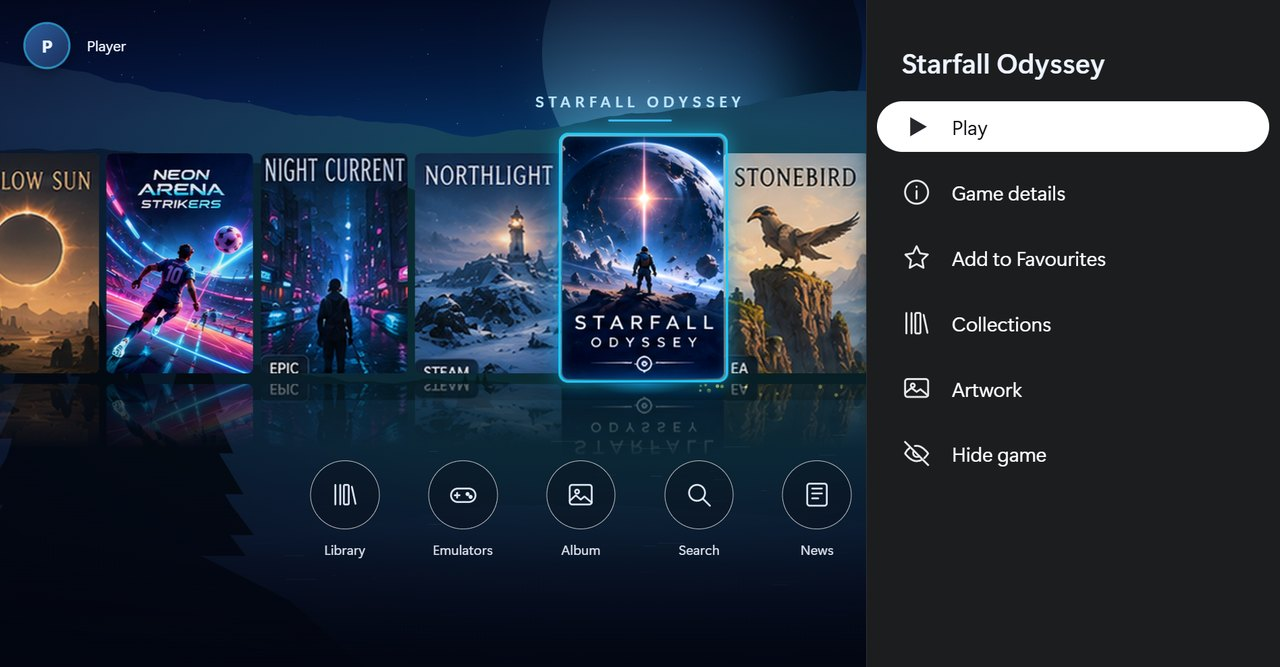
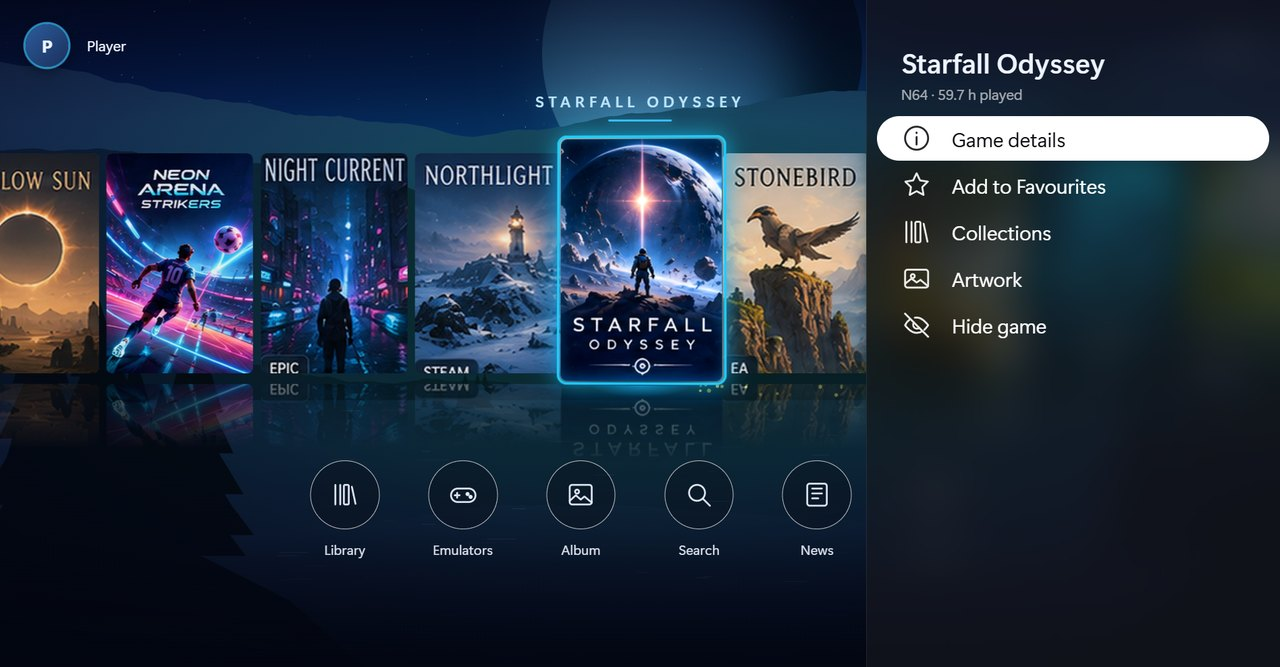
GOG games, launcher installs, game menu like Quick Access, Start opens it, room at 120% scale
- GOG: installed games found from the registry (Galaxy or offline installers); start through Galaxy when it's there
- Steam, Epic, EA app, Ubisoft Connect, GOG Galaxy, Battle.net and Rockstar can be installed from setup and
  Settings > Accounts when missing, through the install queue
- The game menu (Y or Start) is a Quick Access panel for that game: frosted, its console and playtime under the
  title, no Play (A starts a game)
- At a large UI scale the home buttons move up so the platform tabs keep their room

diff --git a/app/app.js b/app/app.js
@@ -1723,8 +1723,7 @@ $('#albumpage').addEventListener('click', e => {
 const Q = { open: false, game: null, i: 0, items: [] };
 function quickItems(g) {
   const svg = n => n === 'play' ? ICON_PLAY : icon(n);
-  return [
-    { label: RUN.has(g.id) ? 'Resume' : g.installed === false ? 'Install' : 'Play', ic: svg('play'), run: () => launchGame(g) },
+  return [  // no Play: A on the cover (or the details page) starts a game, so Y then A never starts one by mistake
     ...(RUN.has(g.id) ? [{ label: closeAsk === g.id ? 'Press A again to close' : 'Close game', ic: svg('close'), warn: true, stay: closeAsk !== g.id, run: () => askClose(g) }] : []),
     ...(D.open ? [] : [{ label: 'Game details', ic: svg('info'), run: () => openDetails(g) }]),
     { label: g.favorite ? 'Remove from Favourites' : 'Add to Favourites', ic: svg('star'), run: () => setFavorite(g, !g.favorite) },
@@ -1765,7 +1764,7 @@ function openQuick(g) {
   cover.style.setProperty('--c', colorOf(g));
   cover.style.backgroundImage = g.cover ? `url("${g.coverAnim || g.cover}")` : 'none';
   cover.innerHTML = g.cover ? '' : `<div class="ph">${esc(g.title)}</div>`;
-  $('#quick .q-meta').textContent = [g.system || g.group, g.installed === false ? 'Not installed' : '', g.minutes ? fmtTime(g.minutes) + ' played' : ''].filter(Boolean).join('   ·   ');
+  $('#quick .q-meta').textContent = [g.system || g.group, g.installed === false ? 'Not installed' : '', g.minutes ? fmtTime(g.minutes) + ' played' : ''].filter(Boolean).join(' · ');
   $('#quick .q-title').textContent = g.title;
   $('#quick .q-list').innerHTML = Q.items.map((it, j) => `<div class="q-item${it.warn ? ' warn' : ''}" data-i="${j}" style="animation-delay:${60 + j * 35}ms">${it.ic}<span>${esc(it.label)}</span></div>`).join('');
   $('#quick').classList.add('sys');  // every menu here is the same side panel
@@ -1995,6 +1994,7 @@ const SETTINGS = [
 const GAME_SERVICES = [
   { id: 'ea', name: 'EA app', logo: 'ea' },
   { id: 'ubisoft', name: 'Ubisoft Connect', logo: 'ubisoft' },
+  { id: 'gog', name: 'GOG', logo: 'gogdotcom' },
   { id: 'rockstar', name: 'Rockstar Games', logo: 'rockstargames' },
   { id: 'battlenet', name: 'Battle.net', logo: 'battledotnet' },
 ];
@@ -2250,6 +2250,7 @@ function panelItems() {
           || (d.services?.[service.id] ? 'Finds games installed on this PC' : 'Add games installed on this PC'),
         value: libraries.length ? 'Manage' : 'Set up', act: () => { P.service = service.id; setView('service'); } };
     }),
+    ...launcherRows(d, false),
     { kind: 'note', label: 'Select a connected account twice to disconnect it.' },
   ];
   if (P.view === 'service') {
@@ -2258,7 +2259,7 @@ function panelItems() {
       const r = await work(api('/api/libraries/add', { kind, provider: service.id }));
       if (r?.added) toast(`${service.name} games added`);
     };
-    const auto = d.services?.[service.id];  // EA app, Ubisoft Connect and Battle.net games are found automatically
+    const auto = d.services?.[service.id];  // EA app, Ubisoft Connect, GOG and Battle.net games are found automatically
     const key = service.id + 'Local';
     return [  // the page title names the service
       ...(auto ? [
@@ -2318,6 +2319,29 @@ function panelItems() {
 const val = id => $(`#panel input[data-id="${id}"]`)?.value || '';
 // ---------- extras: optional tools that install through the emulator queue (Settings › General and the setup guide) ----------
 const PM_RIGHTS = { ready: 'Ready', signout: 'Sign out and back in to finish', needed: 'Needs permission' };
+// Game launchers (Steam, Epic, EA app, Ubisoft Connect, GOG Galaxy, Battle.net, Rockstar): installed through the same queue
+// as the emulators when they're missing, from the setup guide's Accounts step and Settings › Accounts.
+const LAUNCHER_LOGO = { steam: 'steam', epic: 'epicgames', ea: 'ea', ubisoft: 'ubisoft', gog: 'gogdotcom', battlenet: 'battledotnet', rockstar: 'rockstargames' };
+function launcherRows(d, setup) {
+  const list = d.launchers || [];
+  if (!list.length) return [];
+  const missing = list.filter(l => !l.installed);
+  const install = l => l.job && ['waiting', 'installing'].includes(l.job.state) ? toast('It’s on its way', 2500)
+    : work(api('/api/launchers/install', { id: l.id })).then(r => { if (r) { toast(`Installing ${l.name}…`, 3000); watchQueue(); } });
+  return [
+    { kind: 'head', label: 'Game launchers' },
+    { kind: 'note', label: missing.length ? `${setup ? 'Don’t have one you use? ' : ''}Press A to install it from its maker. Their games then show up here by themselves.`
+      : 'Every launcher is installed.' },
+    ...list.map(l => {
+      const job = !l.installed && l.job && l.job.state !== 'ready' ? l.job : null;
+      return { kind: 'row', key: 'launcher-' + l.id, logo: LAUNCHER_LOGO[l.id], label: l.name,
+        value: l.installed ? '✓ Installed' : job ? (job.state === 'failed' ? 'Try again' : jobValue(job)) : 'Install',
+        sub: l.installed ? '' : job?.state === 'failed' ? `Install failed: ${job.error}` : job?.state === 'installing' && job.stage ? progressText(job)
+          : job ? 'Waiting to install' : 'Not installed on this PC',
+        ...jobBar({ job }), act: () => l.installed ? toast(`${l.name} is installed`, 2000) : install(l) };
+    }),
+  ];
+}
 function extraRows(d, setup) {
   const pm = d.extras?.presentmon;
   if (!pm?.available) return [];
@@ -2378,7 +2402,7 @@ function groupRows(list, row) {
 }
 // While emulators install, the open system pages follow along
 let queueTimer = 0;
-const QUEUE_VIEWS = ['systems', 'system', 'add-system', 'setup-systems', 'general', 'setup-extras'];
+const QUEUE_VIEWS = ['systems', 'system', 'add-system', 'setup-systems', 'general', 'setup-extras', 'accounts', 'setup-accounts'];
 const followQueue = () => { if (QUEUE_VIEWS.includes(P.view) && P.data?.queue?.busy) watchQueue(); };  // however the page was reached
 const queueStates = q => (q?.jobs || []).map(j => `${j.id}:${j.state}`).join();
 function watchQueue() {
@@ -2534,6 +2558,7 @@ function setupItems(d, prof) {
       acc.epic ? { kind: 'row', logo: 'epicgames', label: 'Epic Games', value: '✓ Connected', sub: `${acc.epic.count} games`, act: () => {} } : { kind: 'row', logo: 'epicgames', label: 'Connect Epic Games', sub: 'Every game you own on Epic', act: () => setView('epic') },
       { kind: 'note', label: 'Optional: more artwork. Your games already get covers without it.' },
       acc.sgdb ? { kind: 'row', img: SGDB_LOGO, label: 'SteamGridDB', value: '✓ Connected', sub: 'Choose artwork, animated covers', act: () => {} } : { kind: 'row', img: SGDB_LOGO, label: 'SteamGridDB (optional)', sub: 'Choose covers and backgrounds, animated ones too, and Switch covers. Free account', act: () => setView('sgdb') },
+      ...launcherRows(d, true),
       next,
     ];
     case 'setup-games': {
@@ -3114,7 +3139,7 @@ function poll() {
     edge('LB', b(4), () => inputFrom('pad', 'prevTab'));
     edge('RB', b(5), () => inputFrom('pad', 'nextTab'));
     edge('VW', b(8), () => inputFrom('pad', 'system'));
-    edge('ST', b(9), toggleFS);
+    edge('ST', b(9), () => inputFrom('pad', 'options'));  // Start, like Y: the game's menu
   }
   const padIcon = gp ? 'on' : 'off';
   if (PAD_ICON.dataset.s !== padIcon) { PAD_ICON.dataset.s = padIcon; PAD_ICON.innerHTML = gp ? icon('pad') : ''; }

diff --git a/app/styles.css b/app/styles.css
@@ -906,7 +906,10 @@ body.sys-open .sp-box { transform: none; }
 
 #quick.sys { background: none; backdrop-filter: none; display: block; }
 #quick.sys .q-inner { position: absolute; top: 0; right: 0; bottom: 0; width: 56vh; box-sizing: border-box; padding: 6.4vh 3.2vh 4vh; display: block; background: var(--menu-bg); }
-#quick.sys .q-cover, #quick.sys .q-meta { display: none; }
+#quick.sys .q-cover { display: none; }
+/* the game's line under its title, as Quick Access has the time under its own */
+#quick.sys .q-title { order: 0; } #quick.sys .q-meta { order: 1; } #quick.sys .q-list { order: 2; } #quick.sys .sys-time, #quick.sys .sys-info { order: 3; }
+#quick.sys .q-meta { display: block; margin: -2.2vh 2.4vh 2.6vh; font-size: 2.2vh; letter-spacing: 0; text-transform: none; color: var(--quiet); opacity: 1; }
 #quick.sys .q-side { width: auto; height: 100%; display: flex; flex-direction: column; }
 #quick.sys .q-title { text-align: left; font-size: 3.6vh; font-weight: 600; margin: 0 2.4vh 3.2vh; text-shadow: none; }
 #quick.sys .q-list { min-width: 0; gap: .8vh; }
@@ -1025,6 +1028,8 @@ body:not(.ready) #world, body:not(.ready) header, body:not(.ready) main, body:no
    The home screen scales around the middle of the screen, which keeps the row between the header and the bottom; every
    other screen is zoomed, so its own backdrop still fills the screen. The wallpaper, intro and media viewer keep their size. */
 main { transform: scale(var(--scale, 1)); }
+/* Bigger, the home screen runs into the platform tabs at the bottom: its buttons move up into the reflections' space instead */
+#buttons { margin-top: calc((1 - var(--scale, 1)) * 22vh); }
 body > :not(#intro, #world, main, #viewer, #padtester, script) { zoom: var(--scale, 1); }
 /* At a large scale the details column can be taller than the screen: it scrolls down to the screenshots and back up to
    Play, with room around it so the highlight's glow isn't cut off. */
@@ -1084,6 +1089,11 @@ body.quick-open :is(#row, #title), body.sys-open :is(#row, #title) {
 #syspanel .sp-box { padding-top: 5vh; }
 #syspanel .sp-time { margin-bottom: 2vh; }
 .sp-list .sp-row { min-height: 6.6vh; }
+/* the game menu is a Quick Access panel for one game: the same spacing, title and line under it */
+#quick.sys .q-list { gap: .4vh; }
+#quick.sys .q-list .q-item { min-height: 6.6vh; }
+#quick.sys .q-title { margin-bottom: 1vh; }
+#quick.sys .q-meta { margin: 0 3.6vh 2vh; }
 .sp-list .sp-vol { min-height: 8.4vh; }
 .sp-power { justify-content: space-between; gap: 1vh; padding: .6vh 1.2vh; margin-top: 1.4vh; }
 .sp-pw { flex: 1; display: flex; flex-direction: column; align-items: center; gap: .6vh; padding: 1.2vh .4vh; border-radius: 2.4vh; font-size: 1.9vh; white-space: nowrap; }
@@ -1128,7 +1138,7 @@ body.zone-2 #tabs, body.tabs-peek #tabs { pointer-events: auto; }
 #toast { top: auto; bottom: 10vh; }
 
 /* Quick Access: frosted glass over whatever is behind it */
-#syspanel .sp-box, #quick .q-inner { background: rgba(24, 25, 28, .66); -webkit-backdrop-filter: blur(30px) saturate(1.5); backdrop-filter: blur(30px) saturate(1.5);
+#syspanel .sp-box, #quick .q-inner, #quick.sys .q-inner { background: rgba(24, 25, 28, .66); -webkit-backdrop-filter: blur(30px) saturate(1.5); backdrop-filter: blur(30px) saturate(1.5);
   box-shadow: inset 1px 0 0 rgba(255, 255, 255, .08); }
 #syspanel .sp-list .sp-power { margin-top: auto; }  /* power sits at the bottom of the panel */
 #syspanel .sp-list .sp-music { margin-top: auto; }  /* the song sits just above it */

diff --git a/server.py b/server.py
@@ -2638,7 +2638,7 @@ def scan():
             except Exception as e:
                 programs = []
                 errors.append(f"Installed programs: {e}")
-            for prov, fn in (("ea", scan_ea), ("ubisoft", scan_ubisoft), ("battlenet", scan_battlenet)):
+            for prov, fn in (("ea", scan_ea), ("ubisoft", scan_ubisoft), ("gog", scan_gog), ("battlenet", scan_battlenet)):
                 if cfg.get(prov + "Local", True):
                     add(f"{LOCAL_PROVIDERS[prov]} (installed)", lambda fn=fn: fn(programs, cfg))
         if "epic" in accounts:
@@ -4139,7 +4139,7 @@ def open_frontend():
         threading.Thread(target=bring_forward, daemon=True).start()
 # Menu navigation straight from XInput (Xbox pads, and the Steam Controller or any pad Steam Input presents as one), so the
 # frontend works with a controller even when the browser's own gamepad support doesn't see it.
-PAD_BUTTONS = {0x1000: "ok", 0x2000: "back", 0x8000: "options", 0x0100: "prevTab", 0x0200: "nextTab"}
+PAD_BUTTONS = {0x1000: "ok", 0x2000: "back", 0x8000: "options", 0x0010: "options", 0x0100: "prevTab", 0x0200: "nextTab"}  # Start, like Y: the game's menu
 PAD_DIRS = {"up": 0x0001, "down": 0x0002, "left": 0x0004, "right": 0x0008}
 PAD = {"seq": 0, "events": [], "cond": threading.Condition(), "pads": 0, "seen": 0.0, "last": {}}
 XSTATE = {}  # XInput slot: (when, buttons, lt, rt, lx, ly, rx, ry), the latest of each pad, for the controller tester
@@ -4443,7 +4443,8 @@ def foreground_title():
 PAD_BATTERY = [None, 0.0]
 PAD_RAW = [b"", 0.0]  # the latest report, for the tester in Settings > Controllers
 # Report 0x42: (byte, bit) of each menu control; the left stick is two signed words at bytes 10 and 12. D-pad directions repeat.
-STEAM_PAD = {"system": (3, 6), "ok": (2, 0), "back": (2, 1), "options": (2, 3), "up": (3, 5), "down": (3, 2), "left": (3, 4), "right": (3, 3), "prevTab": (4, 3), "nextTab": (3, 1)}
+STEAM_PAD = {"system": (3, 6), "ok": (2, 0), "back": (2, 1), "options": (2, 3), "start": (2, 6), "up": (3, 5), "down": (3, 2), "left": (3, 4), "right": (3, 3), "prevTab": (4, 3), "nextTab": (3, 1)}
+STEAM_ALIAS = {"start": "options"}  # Start (Menu), like Y: the game's menu
 
 
 def pad_motion(path, on):
@@ -4560,7 +4561,7 @@ def steam_button_reader(path, active):
             state = {k for k, (byte, bit) in STEAM_PAD.items() if r[byte] >> bit & 1}
             state |= {d for d, hit in (("up", ly > 18000), ("down", ly < -18000), ("left", lx < -18000), ("right", lx > 18000)) if hit}
             for k in state - held:
-                pad_emit(k, "steam")
+                pad_emit(STEAM_ALIAS.get(k, k), "steam")
                 repeat[k] = now + 0.38
             for k in state & set(repeat) & {"up", "down", "left", "right"}:  # directions only; in the short overlay menu just left and right (volume)
                 if now >= repeat[k] and (k in ("left", "right") or not overlay_open()):
@@ -4830,19 +4831,20 @@ def pick(kind, title, filetypes=None):
             root.destroy()
 
 
-LOCAL_PROVIDERS = {"ea": "EA app", "ubisoft": "Ubisoft Connect", "rockstar": "Rockstar Games", "battlenet": "Battle.net"}
+LOCAL_PROVIDERS = {"ea": "EA app", "ubisoft": "Ubisoft Connect", "gog": "GOG", "rockstar": "Rockstar Games", "battlenet": "Battle.net"}
 
 
-# ---------------------------------------------------------------- EA app, Ubisoft Connect, Battle.net: installed games
+# ---------------------------------------------------------------- EA app, Ubisoft Connect, GOG, Battle.net: installed games
 # None of them share your owned-games list without their own sign-in, so (like "Installed Steam games") this finds what
 # each launcher has installed on this PC from the entries it writes to Windows' installed-programs list, and starts
 # games through the launcher so sign-in, updates and cloud saves still work.
-SERVICE_SCANS = ("ea", "ubisoft", "battlenet")   # each has an on/off option "<id>Local" (on by default)
+SERVICE_SCANS = ("ea", "ubisoft", "gog", "battlenet")   # each has an on/off option "<id>Local" (on by default)
 OPTION_KEYS = ("steamLocal", "onlineCovers", "showUninstalled", "artBackground", "guideOpens", "wiiMotion") + tuple(p + "Local" for p in SERVICE_SCANS)
 SERVICE_APPS = {
     "ea": [r"C:\Program Files\Electronic Arts\EA Desktop\EA Desktop\EADesktop.exe"],
     "ubisoft": [r"C:\Program Files (x86)\Ubisoft\Ubisoft Game Launcher\UbisoftConnect.exe", r"C:\Program Files (x86)\Ubisoft\Ubisoft Game Launcher\upc.exe"],
     "battlenet": [r"C:\Program Files (x86)\Battle.net\Battle.net.exe", r"C:\Program Files\Battle.net\Battle.net.exe"],
+    "gog": [r"C:\Program Files (x86)\GOG Galaxy\GalaxyClient.exe", r"C:\Program Files\GOG Galaxy\GalaxyClient.exe"],
 }
 # Battle.net starts a game by its product code; games not listed here start from their own launcher program instead.
 BNET_CODES = {"wow": "WoW", "d3": "D3", "pro": "Pro", "hs_beta": "WTCG", "heroes": "Hero", "s1": "S1", "s2": "S2", "w3": "W3",
@@ -4953,6 +4955,89 @@ def scan_battlenet(programs, cfg):
     return games
 
 
+def scan_gog(programs, cfg):
+    """GOG games: GOG Galaxy and GOG's own offline installers both list each installed game under GOG.com\\Games in the
+    registry. With Galaxy installed a game starts through it (cloud saves, achievements); otherwise its own program starts."""
+    import winreg
+    app, games = service_app("gog"), []
+    for path in (r"SOFTWARE\WOW6432Node\GOG.com\Games", r"SOFTWARE\GOG.com\Games"):
+        try:
+            root = winreg.OpenKey(winreg.HKEY_LOCAL_MACHINE, path)
+        except OSError:
+            continue
+        with root:
+            for i in range(winreg.QueryInfoKey(root)[0]):
+                try:
+                    game_id = winreg.EnumKey(root, i)
+                    with winreg.OpenKey(root, game_id) as k:
+                        def val(name):
+                            try:
+                                return str(winreg.QueryValueEx(k, name)[0] or "")
+                            except OSError:
+                                return ""
+                        title, folder, exe, args, depends = val("gameName"), val("path"), val("exe"), val("launchParam"), val("dependsOn")
+                except OSError:
+                    continue
+                if not re.fullmatch(r"\d+", game_id) or depends or not title or not os.path.isdir(folder):  # dependsOn: a DLC, not a game
+                    continue
+                if any(g["id"] == gid("gog", game_id) for g in games):
+                    continue
+                if app:
+                    launch = {"type": "exe", "exe": app, "args": ["/command=runGame", f"/gameId={game_id}", f"/path={folder}"]}
+                elif exe and os.path.isfile(exe):
+                    launch = {"type": "exe", "exe": exe, "args": args.split() if args else []}
+                else:
+                    found = best_exe(folder)
+                    if not found:
+                        continue
+                    launch = {"type": "exe", "exe": found, "args": []}
+                games.append(service_game("gog", game_id, clean_title(title), folder, launch, cfg))
+    return games
+
+
+# ---------------------------------------------------------------- game launchers: installed from setup or Settings when missing
+# (id, name, winget package). Each comes from its maker through winget, like the emulators, in the same install queue.
+LAUNCHERS = [("steam", "Steam", "Valve.Steam"), ("epic", "Epic Games Launcher", "EpicGames.EpicGamesLauncher"),
+             ("ea", "EA app", "ElectronicArts.EADesktop"), ("ubisoft", "Ubisoft Connect", "Ubisoft.Connect"),
+             ("gog", "GOG Galaxy", "GOG.Galaxy"), ("battlenet", "Battle.net", "Blizzard.BattleNet"),
+             ("rockstar", "Rockstar Games Launcher", "RockstarGames.Launcher")]
+LAUNCHER_FILES = {
+    "epic": [r"C:\Program Files (x86)\Epic Games\Launcher\Portal\Binaries\Win64\EpicGamesLauncher.exe",
+             r"C:\Program Files (x86)\Epic Games\Launcher\Portal\Binaries\Win32\EpicGamesLauncher.exe",
+             r"C:\Program Files\Epic Games\Launcher\Portal\Binaries\Win64\EpicGamesLauncher.exe"],
+    "rockstar": [r"C:\Program Files\Rockstar Games\Launcher\Launcher.exe", r"C:\Program Files (x86)\Rockstar Games\Launcher\Launcher.exe"],
+}
+
+
+def launcher_installed(lid):
+    if lid == "steam":
+        return bool(steam_path())
+    if lid in SERVICE_APPS:
+        return bool(service_app(lid))
+    return any(os.path.isfile(f) for f in LAUNCHER_FILES.get(lid, []))
+
+
+def queue_launcher(lid):
+    entry = next((l for l in LAUNCHERS if l[0] == lid), None)
+    if not entry or not WIN:
+        raise ValueError("No such launcher")
+    with QUEUE_COND:
+        if not any(j.get("launcher") == lid and j["state"] in ("waiting", "installing") for j in QUEUE["jobs"]):
+            new_batch()
+            QUEUE["next"] += 1
+            QUEUE["jobs"].append({"id": QUEUE["next"], "emulator": entry[1], "package": (entry[2], "launcher"), "systems": [], "launcher": lid,
+                                  "state": "waiting", "error": ""})
+    queue_install([])  # starts the worker if need be and wakes it
+
+
+def launchers_view():
+    out = []
+    for lid, name, _ in LAUNCHERS:
+        job = next((j for j in reversed(QUEUE["jobs"]) if j.get("launcher") == lid), None)
+        out.append({"id": lid, "name": name, "installed": launcher_installed(lid), "job": job_info(job) if job else None})
+    return out
+
+
 def add_library(kind, provider=None):
     if provider and (provider not in LOCAL_PROVIDERS or kind not in ("pc", "game")):
         raise ValueError("Unknown game service")
@@ -5010,7 +5095,8 @@ def settings_view():
     return {"options": {**{k: cfg.get(k, True) for k in OPTION_KEYS}, "startup": cfg.get("startup")}, "services": services, "libraries": libs, "accounts": acc,
             "errors": STATE["errors"], "steamDetected": bool(steam_path()), "steamSuggestedId": steam_suggested_id(),
             "localSteamCount": STATE["counts"].get("Steam (installed)", 0), "romRoot": cfg.get("romRoot") or "", "platforms": platforms,
-            "queue": queue_view(), "profile": profile(), "update": update_view(), "extras": extras_view()}
+            "queue": queue_view(), "profile": profile(), "update": update_view(), "extras": extras_view(),
+            "launchers": launchers_view() if WIN else []}
 
 
 def profile():
@@ -6086,6 +6172,20 @@ def install_worker():
 
 
 def install_job(job):
+    if job.get("launcher"):  # a game launcher (Steam, GOG Galaxy...): winget, then its games are looked for
+        try:
+            winget_install(job["package"][0], job["emulator"])
+            job.update(state="ready" if launcher_installed(job["launcher"]) else "failed",
+                       error="" if launcher_installed(job["launcher"]) else "Installed, but it wasn’t found where expected. Restart the frontend.")
+        except Exception as e:
+            job.update(state="failed", error=(str(e) or type(e).__name__)[:200])
+            if not isinstance(e, ValueError):
+                log_error()
+        try:
+            scan()
+        except Exception:
+            log_error()
+        return
     if job.get("extra"):  # an extra (PresentMon): no systems to connect or rescan
         try:
             EXTRAS[job["extra"]][1]()
@@ -6708,6 +6808,9 @@ class Handler(SimpleHTTPRequestHandler):
                 if not hud.presentmon(DATA):
                     raise ValueError("Install the performance overlay in Settings › General first")
                 return self.reply({"mode": hud_mode(cycle=True)})
+            if path == "/api/launchers/install":  # a missing game launcher, through the install queue
+                queue_launcher(body.get("id") or "")
+                return self.reply(settings_view())
             if path in ("/api/extras/install", "/api/extras/remove", "/api/extras/permission"):
                 if body.get("name") not in EXTRAS or not WIN:
                     raise ValueError("No such extra")

diff --git a/README.md b/README.md
@@ -33,8 +33,8 @@
 <td width="50%" valign="top">
 
 ### 🕹 Every game in one place
-**Steam, Epic Games, EA app, Ubisoft Connect, Rockstar Games and Battle.net**, plus your own games folders and ROMs.
-Store games start through their own launcher, so sign-in, updates and cloud saves still work.
+**Steam, Epic Games, EA app, Ubisoft Connect, GOG, Rockstar Games and Battle.net**, plus your own games folders and ROMs.
+Store games start through their own launcher, so sign-in, updates and cloud saves still work. Missing a launcher? Setup can install it.
 
 </td>
 <td width="50%" valign="top">
@@ -106,8 +106,8 @@ and a UI scale setting.
   <sub>Game details</sub>
 </td>
 <td width="50%" align="center">
-  <img src="assets/screens/gamemenu.jpg" alt="The game menu over the home row: Play, Game details, Favourites, Collections, Artwork, Hide" width="100%"><br>
-  <sub>Game menu (<b>Y</b>)</sub>
+  <img src="assets/screens/gamemenu.jpg" alt="The game menu over the home row: Game details, Favourites, Collections, Artwork, Hide" width="100%"><br>
+  <sub>Game menu (<b>Y</b> or <b>Start</b>)</sub>
 </td>
 </tr>
 <tr>
@@ -155,7 +155,7 @@ and a UI scale setting.
 |---|---|---|
 | **A** | Select | |
 | **B** | Back | |
-| **Y** | Game menu (artwork, favourites, hide…) | |
+| **Y** or **Start** | Game menu (details, favourites, artwork, hide…) | |
 | **View** | Quick Access | |
 | **LB / RB** | Change tab | |
 | **Xbox button**, **Steam button** or **View + Start** | Open the frontend | In-game menu |
@@ -196,7 +196,7 @@ with no account. To choose your own, including **animated covers and backgrounds
 2. Sign in there, or make a free account.
 3. Choose **Generate API Key**, copy it, and paste it back into the frontend.
 
-Then press **Y** on any game and choose **Artwork**.
+Then press **Y** (or **Start**) on any game and choose **Artwork**.
 
 ---
 
@@ -205,7 +205,7 @@ Then press **Y** on any game and choose **Artwork**.
 <details>
 <summary><b>A game is missing</b></summary>
 
-Installed Steam, EA app, Ubisoft Connect, Rockstar Games and Battle.net games are found by themselves. For Steam games you own but haven't
+Installed Steam, EA app, Ubisoft Connect, GOG, Rockstar Games and Battle.net games are found by themselves. For Steam games you own but haven't
 installed, and for Epic, connect the account in **Settings → Accounts**. For anything else, add its folder in
 **Settings → Libraries**, or add a single game there.
 </details>

diff --git a/THIRD_PARTY_NOTICES.md b/THIRD_PARTY_NOTICES.md
@@ -53,6 +53,7 @@ The logos of the older systems, made plain white and trimmed to the artwork (the
 |---|---|---|---|
 | atari.svg | Atari (Atari 8-bit) | [Simple Icons](https://cdn.jsdelivr.net/npm/simple-icons@16.36.0/icons/atari.svg) | CC0 1.0 |
 | commodore.svg | Commodore (C64, VIC-20) | [Simple Icons](https://cdn.jsdelivr.net/npm/simple-icons@16.36.0/icons/commodore.svg) | CC0 1.0 |
+| gogdotcom.svg | GOG | [Simple Icons](https://cdn.jsdelivr.net/npm/simple-icons@16.36.0/icons/gogdotcom.svg) | CC0 1.0 |
 | nec.svg | NEC (PC Engine CD) | [Simple Icons](https://cdn.jsdelivr.net/npm/simple-icons@16.36.0/icons/nec.svg) | CC0 1.0 |
 | nintendo64dd.svg | 64DD | [Commons: 64DD logo (1999).svg](https://commons.wikimedia.org/wiki/File:64DD_logo_%281999%29.svg) | Public domain |
 | fds.svg | Family Computer Disk System | [Commons: Family Computer Disk System logo.svg](https://commons.wikimedia.org/wiki/File:Family_Computer_Disk_System_logo.svg) | Public domain |
